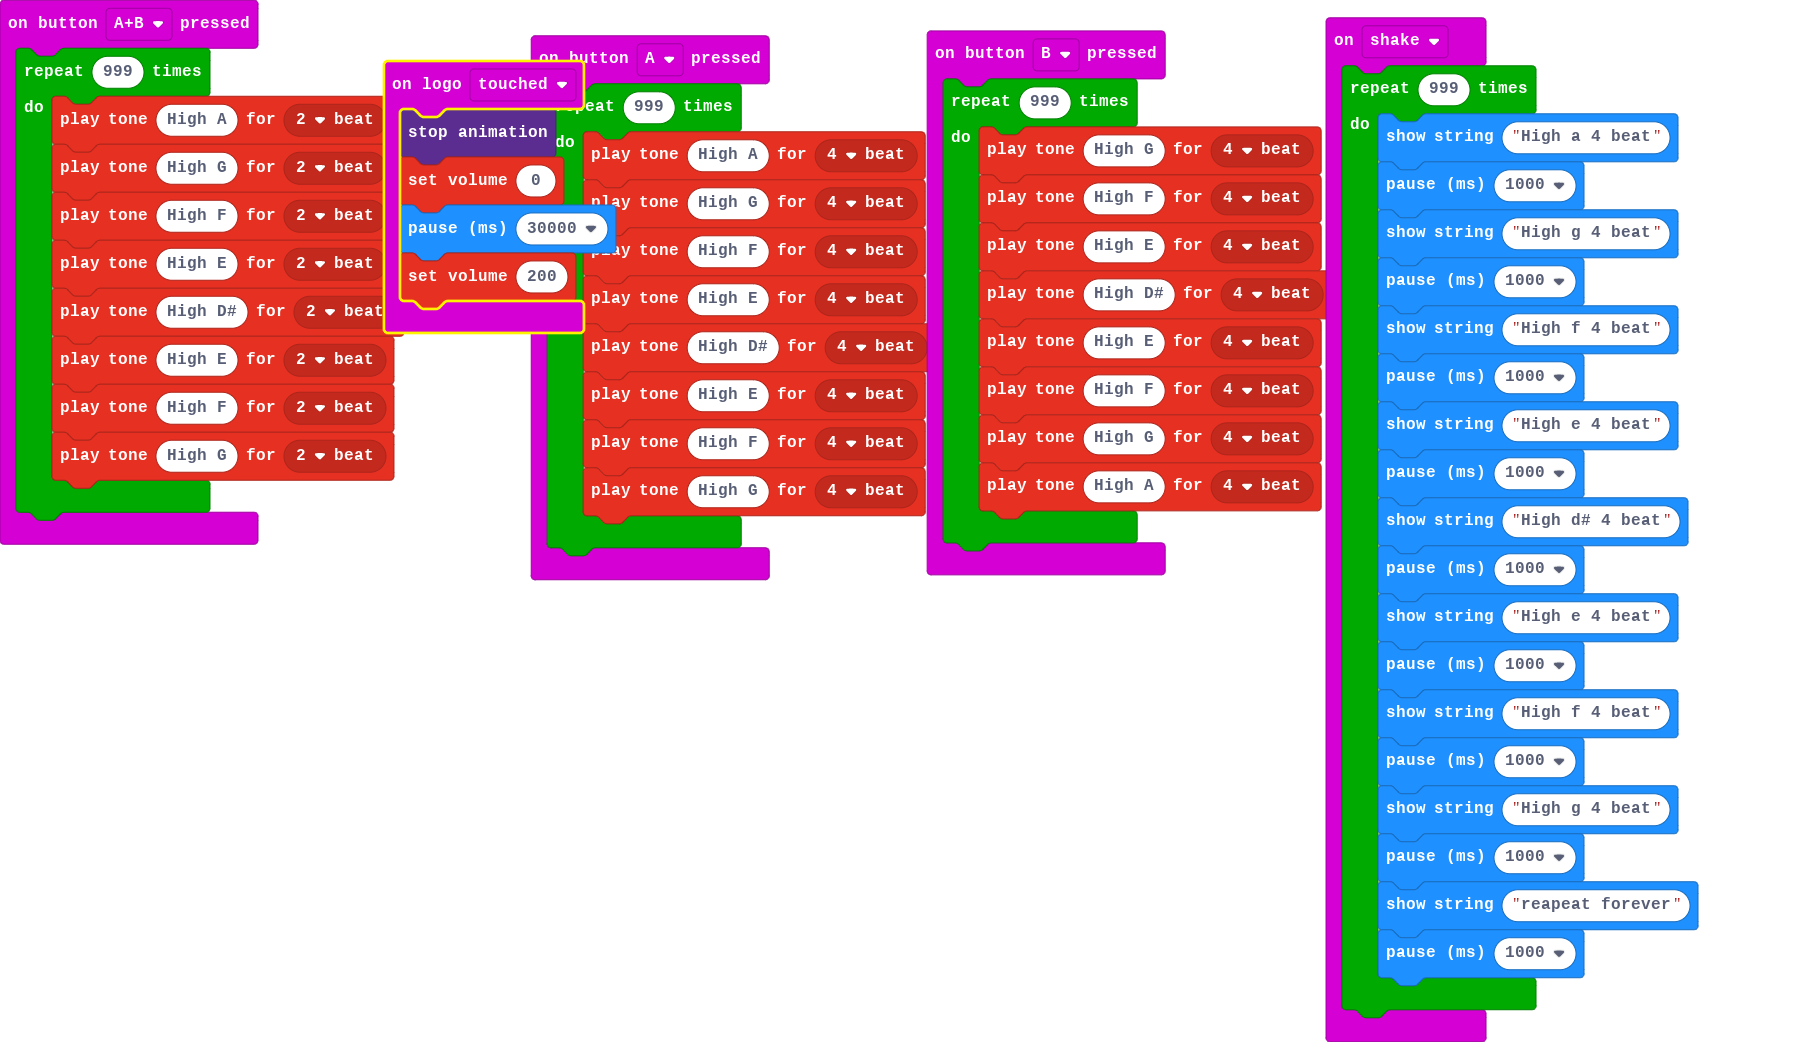
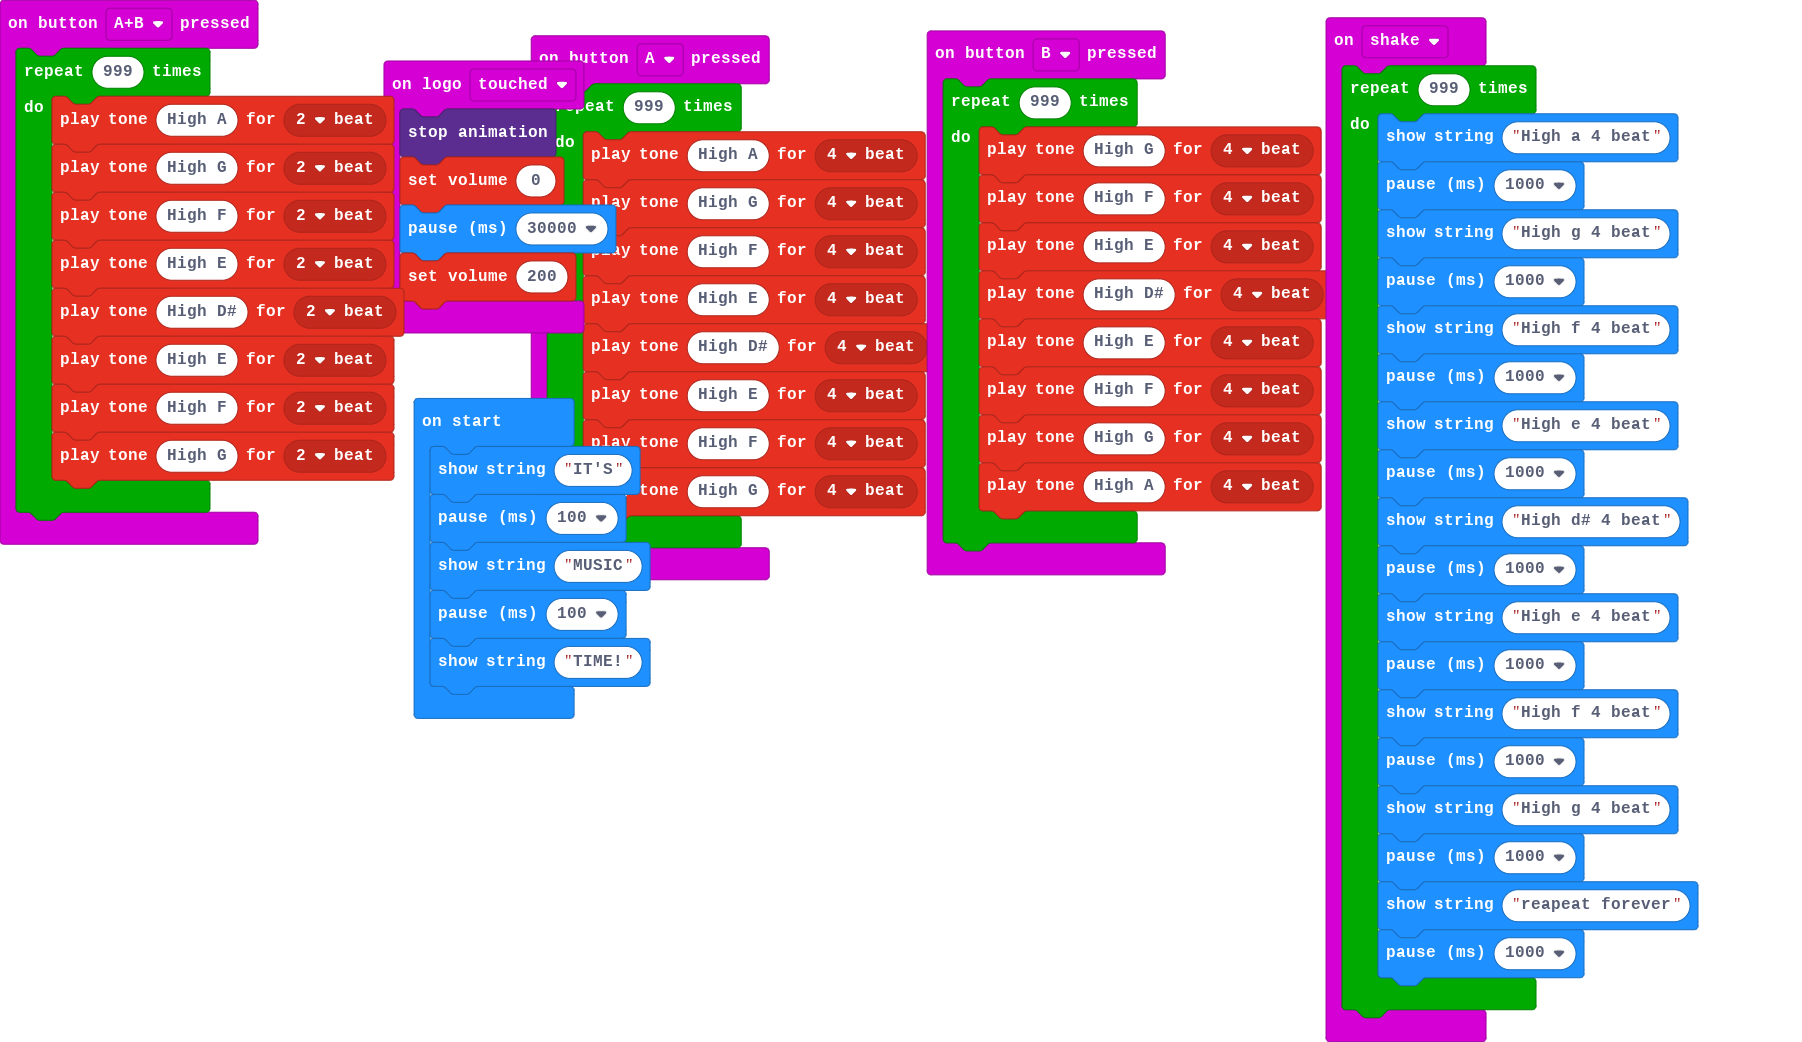
Update main.blocks, main.ts

Changed region(s): [[0.2175, 0.3685, 0.3729, 0.7063], [0.1865, 0.0921, 0.3108, 0.3378], [0.2175, 0.0307, 0.3108, 0.0614]]

diff --git a/main.ts b/main.ts
@@ -62,3 +62,8 @@ input.onLogoEvent(TouchButtonEvent.Touched, function () {
     basic.pause(30000)
     music.setVolume(200)
 })
+basic.showString("IT'S")
+basic.pause(100)
+basic.showString("MUSIC")
+basic.pause(100)
+basic.showString("TIME!")
